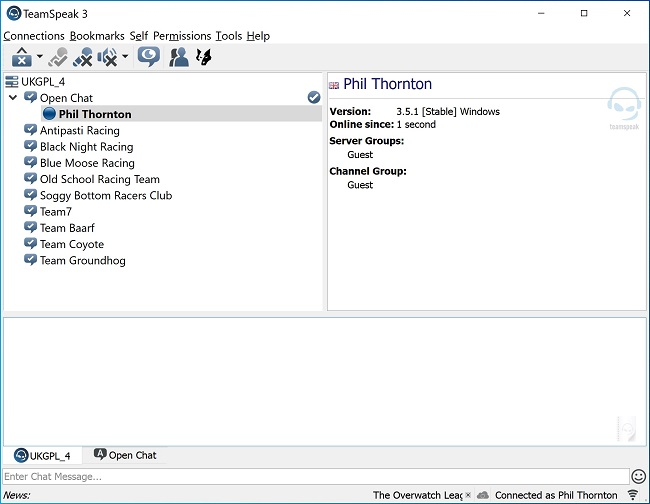
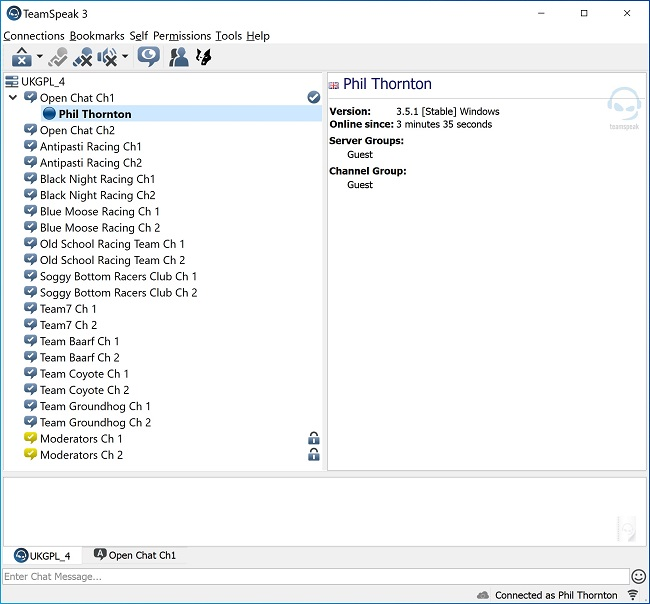
Update UKGPL TeamSpeak docs.

diff --git a/public_html.ukgpl/pages/teamSpeak.php b/public_html.ukgpl/pages/teamSpeak.php
@@ -36,11 +36,11 @@
   </blockquote>
 </blockquote>
 
-<p>4. Once connected, the available channels will appear in the Client window.  On UKGPL__4 the default channel is "Open Chat". There is a chat channel for each of the teams. These are not password protected so it is possible to eavesdrop on other teams as it is in real F1.</p>
+<p>4. Once connected, the available channels will appear in the Client window.  On UKGPL__4 the default channel is "Open Chat Ch1". There are two open chat channels and two chat channels for each of the teams (just in case two races are running concurrently). These are not password protected so it is possible to eavesdrop on other teams as it is in real F1.</p>
 <blockquote>
   <blockquote>
     <blockquote>
-    <p><img border="0" src="/images/teamspeak/teamspeakMainWindowConnected.jpg" width="650" height="504"></p>
+    <p><img border="0" src="/images/teamspeak/teamspeakMainWindowConnected.jpg" width="650" height="604"></p>
     </blockquote>
   </blockquote>
 </blockquote>
@@ -49,7 +49,7 @@
 <blockquote>
   <blockquote>
     <blockquote>
-    <p><img border="0" src="/images/teamspeak/teamspeakOptionsDropdown.jpg" width="650" height="479"></p>
+    <p><img border="0" src="/images/teamspeak/teamspeakOptionsDropdown1.jpg" width="650" height="604"></p>
     </blockquote>
   </blockquote>
 </blockquote>
